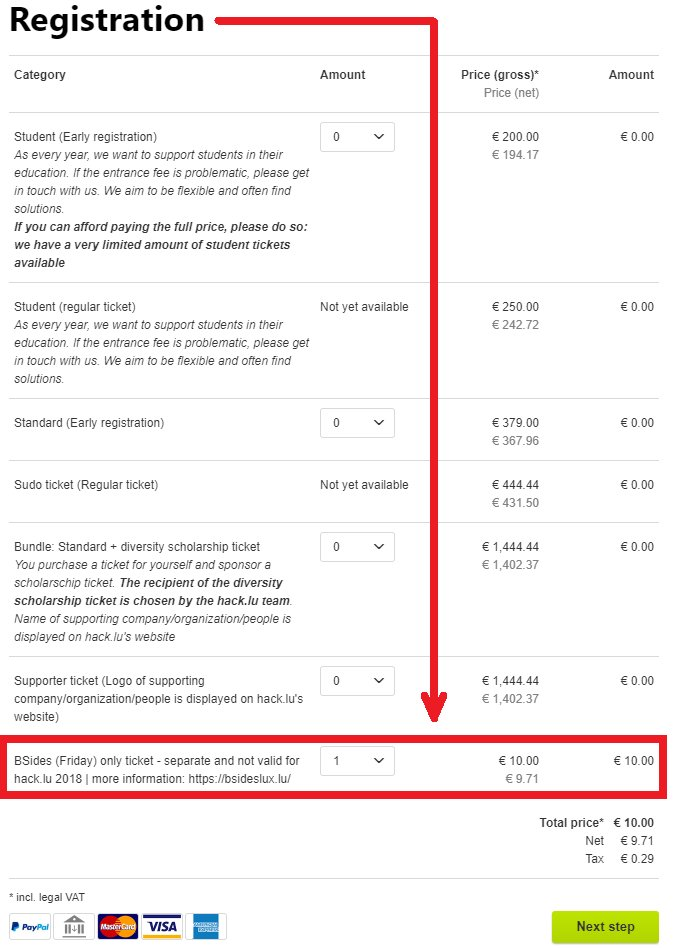
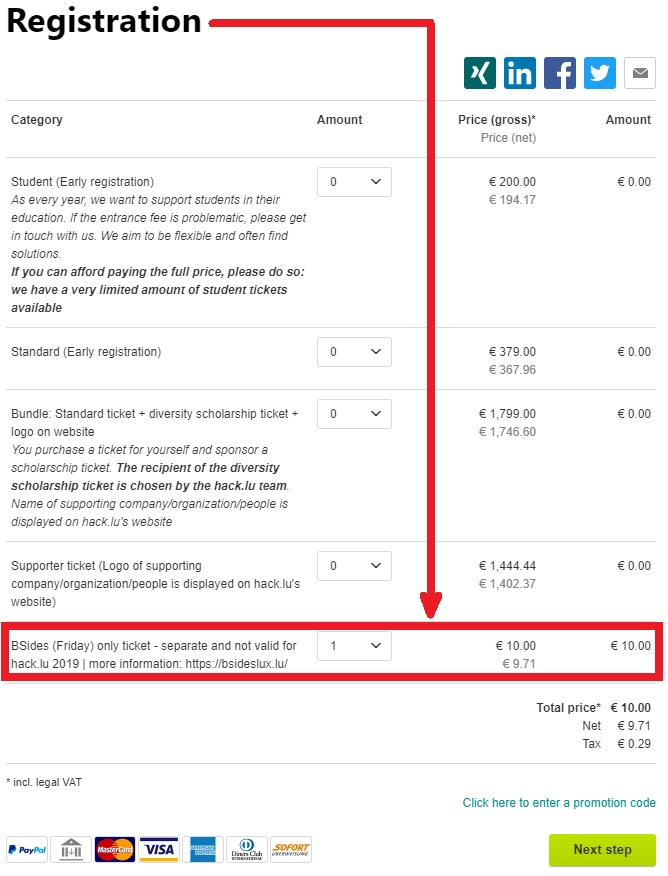
Registration open
Registration opened

diff --git a/2019/registration.html b/2019/registration.html
@@ -119,13 +119,12 @@
 				    We would like to thank our Gold level sponsor <b>Hack.lu</b>
 					for providing us with the venue as well as with a shared
 					registration system, that you can find 
-					<b><a href="registration.html" target="_blank">here</a></b>.
-					<!--<b><a href="https://2019.hack.lu/info/" target="_blank">here</a></b>.-->
+					<b><a href="https://2019.hack.lu/info/" target="_blank">here</a></b>.
                   </p>
                   <p>
 				    On that site, this is the ticket you will need:
                   </p>
-                  <!--<img class="img-responsive" src="img/registration.jpg" style="width:100%; margin: 0 auto" alt="">-->
+                  <img class="img-responsive" src="img/registration.jpg" style="width:100%; margin: 0 auto" alt="">
 				  <p>
                     We ask for a small, <b>10 EUR entrance fee</b> to reduce the number of
 					"no-shows". This amount will be used to cover some of the expenses of
